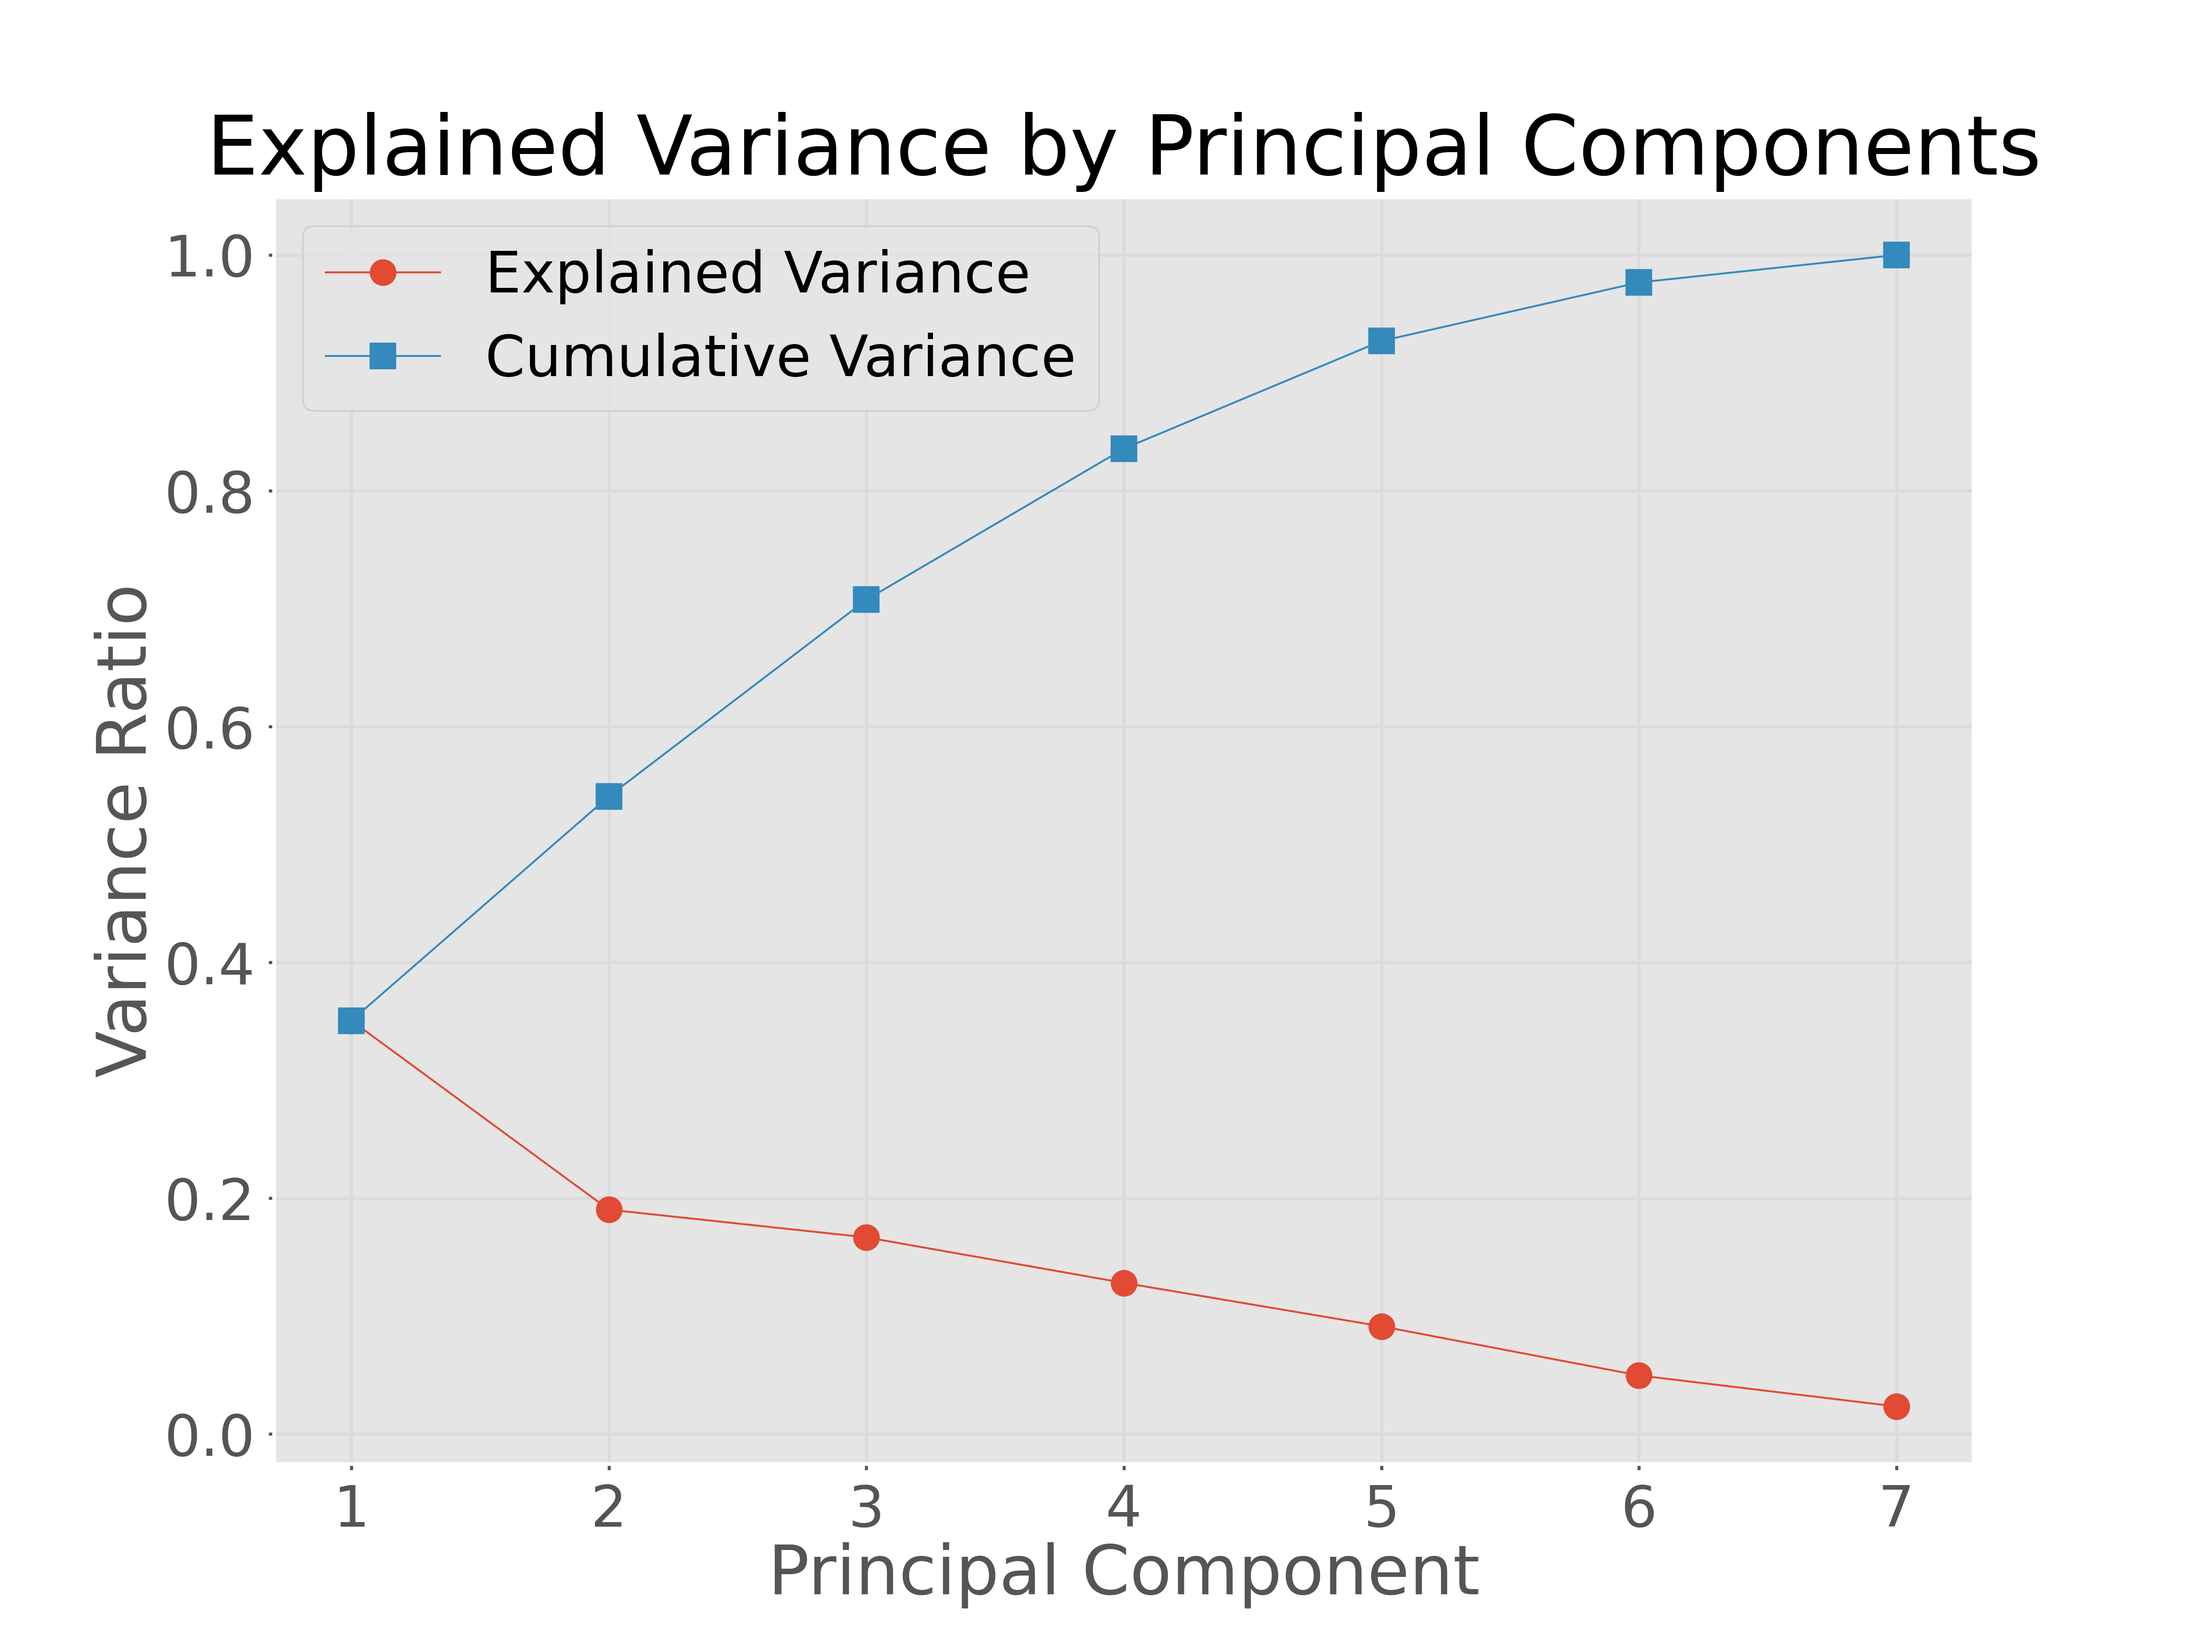
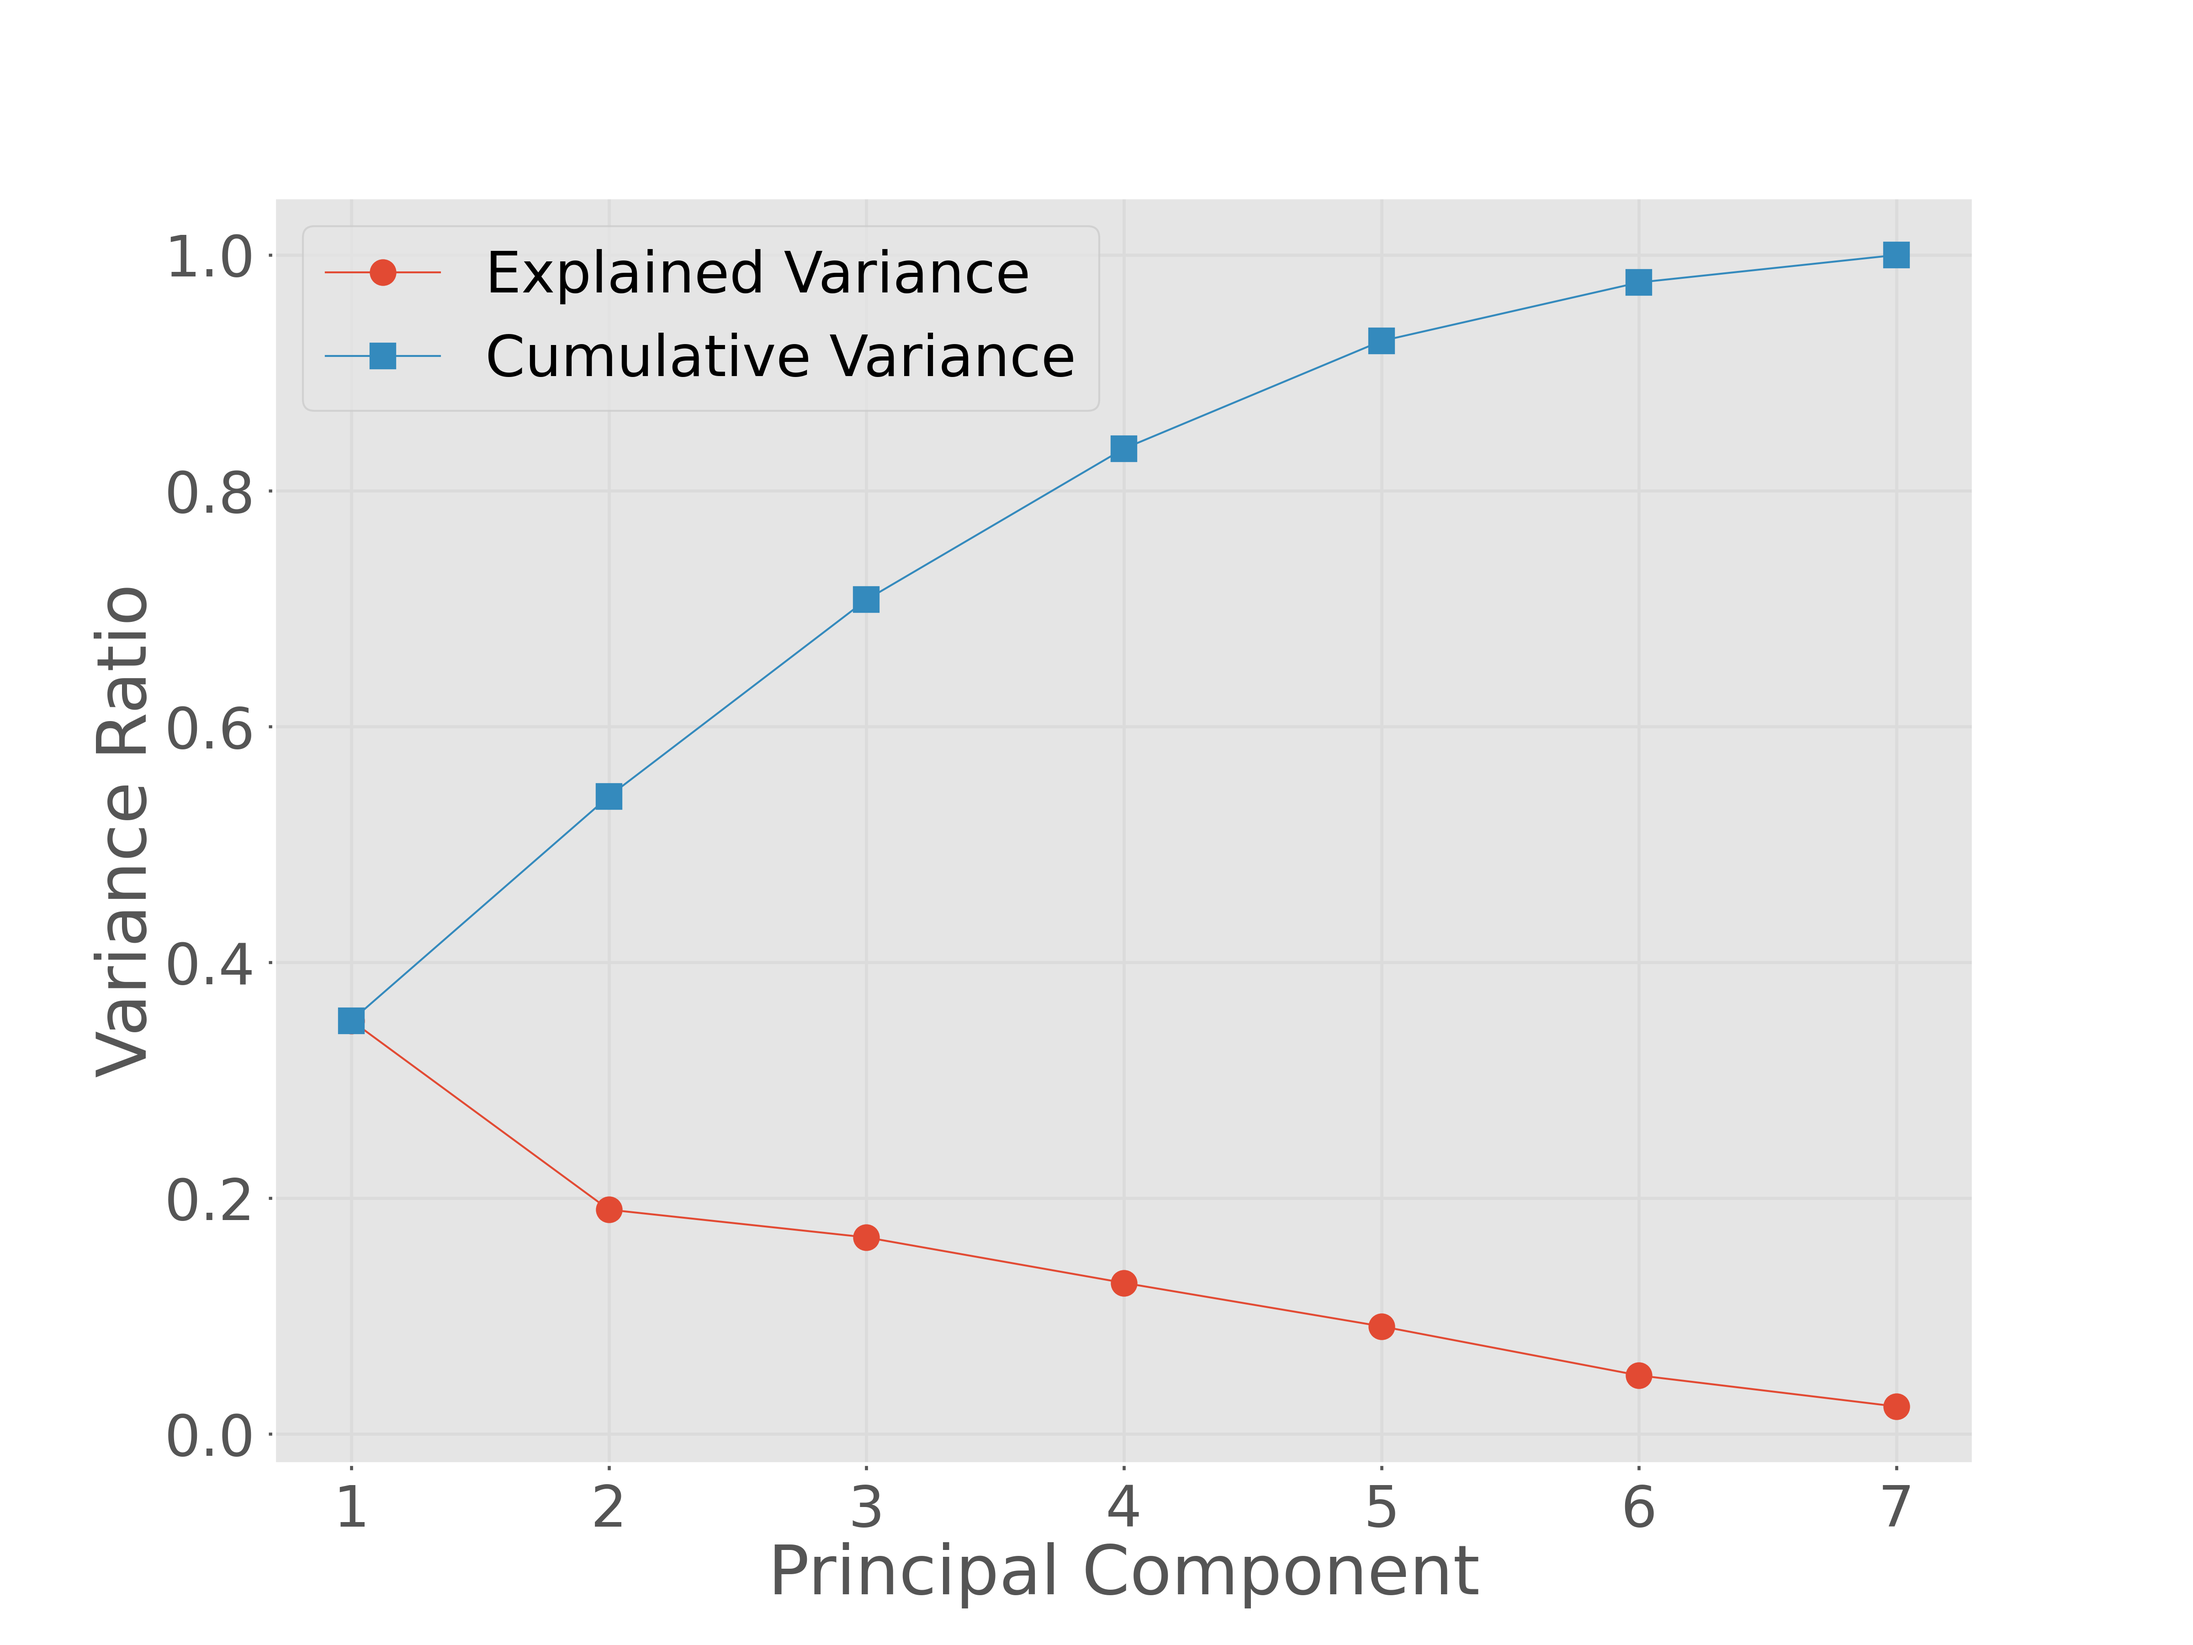
pca plot generated

Changed region(s): [[0.0938, 0.0622, 0.9375, 0.1244]]

diff --git a/utils/calculate_q.py b/utils/calculate_q.py
@@ -16,6 +16,7 @@ def calculate_q(initial_position, goal_position, exp_name, runtime, filepath, n_
     generate_pca_file(n_components)
     pca_reload = pk.load(open("./utils/pca.pkl",'rb'))
     pca_components = pca_reload.pca.components_
+    pca_reload.pca_plot(".\experiment_data_set\\figures\pca_plot.png")
     min = minimize_dataset(pca_components, runtime*factor)
 
     q_optimal = min.minimize_function(initial_position, goal_position)

diff --git a/utils/PCA.py b/utils/PCA.py
@@ -42,7 +42,7 @@ class PCA:
         plt.plot(range(1, self.n_components + 1 ), self.cumulative_variance, marker='s', label='Cumulative Variance')
         plt.xlabel('Principal Component')
         plt.ylabel('Variance Ratio')
-        plt.title('Explained Variance by Principal Components')
+        # plt.title('Explained Variance by Principal Components')
         plt.legend()
         plt.grid(True)
         plt.savefig(filename)
